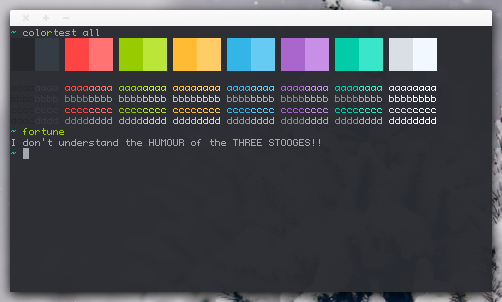
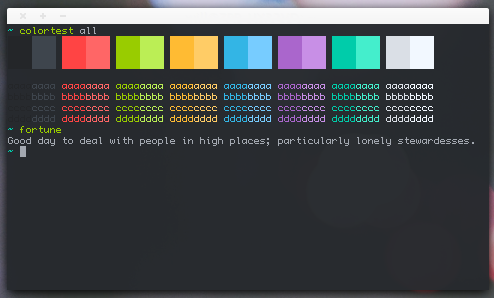
added tmux section and updated screenshots

Changed region(s): [[0.0, 0.0, 1.0, 1.0], [0.0607, 0.302, 0.0911, 0.3322]]

diff --git a/stylesheet.css b/stylesheet.css
@@ -15,7 +15,7 @@ a {
 h2 {
 	color: #222;
 	font-weight: 700;
-	font-size: 30pt;
+	font-size: 30px;
 	padding: 0;
 	margin: 0;
 }
@@ -34,7 +34,7 @@ h2 {
 	margin: 15px;
 	
 	font-weight: 400;
-	font-size: 14pt;
+	font-size: 14px;
 	color: #444;
 	text-decoration: none;
 }
@@ -43,7 +43,8 @@ h2 {
 #sidebar .startpage,
 #sidebar .themes,
 #sidebar .terminal,
-#sidebar .vim {
+#sidebar .vim,
+#sidebar .tmux {
 	border-bottom: 1px dotted #ccc;
 }
 
@@ -54,7 +55,7 @@ h2 {
 
 #title a {
 	font-weight: 600;
-	font-size: 30pt;
+	font-size: 30px;
 	text-decoration: none;
 	color: #111;
 }
@@ -74,7 +75,8 @@ h2 {
 #startpage_cont,
 #themes_cont,
 #terminal_cont,
-#vim_cont {
+#vim_cont,
+#tmux_cont {
 	width: auto;
 	padding-top: 5%;
 	padding-bottom: 5%;
@@ -84,7 +86,7 @@ h2 {
 	text-align: center;
 
 	font-weight: 600;
-	font-size: 24px;
+	font-size: 18px;
 	color: #444;
 	border-bottom: 1px dotted #ccc;
 }
@@ -96,9 +98,10 @@ h2 {
 #startpage_cont .links a,
 #terminal_cont .links a, 
 #themes_cont a,
-#vim_cont .links a {
+#vim_cont .links a,
+#tmux_cont .links a {
 	text-decoration: none;
-	font-size: 18px;
+	font-size: 14px;
 	font-weight: 600;
 	color: #888;
 	border: 1px dotted #aaa;
@@ -114,7 +117,8 @@ h2 {
 #startpage_cont .links a:hover,
 #terminal_cont .links a:hover, 
 #themes_cont a:hover,
-#vim_cont .links a:hover {
+#vim_cont .links a:hover,
+#tmux_cont .links a:hover {
 	border: 1px solid #0b72d9;
 	color: #0b72d9;
 	transition: all 0.3s ease 0s;
@@ -124,7 +128,7 @@ h2 {
 
 #themes_cont .norm_link,
 #themes_cont .norm_link:hover {
-	font-size: 24px;
+	font-size: 18px;
 	border: none;
 	padding: 0;
 }
@@ -135,7 +139,8 @@ h2 {
 #startpage_cont,
 #themes_cont,
 #terminal_cont,
-#vim_cont {
+#vim_cont,
+#tmux_cont {
 	font-weight: 400;
 }
 
@@ -144,7 +149,8 @@ h2 {
 #userchrome_cont img,
 #startpage_cont img,
 #terminal_cont img,
-#vim_cont img {
+#vim_cont img,
+#tmux_cont img {
 	display: block;
 	width: 100%;
 	max-width: 1191px;
@@ -156,11 +162,15 @@ h2 {
 }
 
 #terminal_cont img {
-	max-width: 502px;
+	max-width: 494px;
 }
 
 #vim_cont img {
-	max-width: 509px;
+	max-width: 495px;
+}
+
+#tmux_cont img {
+	max-width: 503px;
 }
 
 #userchrome_cont img {
@@ -172,7 +182,8 @@ h2 {
 #userchrome_cont img:hover,
 #startpage_cont img:hover,
 #terminal_cont img:hover,
-#vim_cont img:hover {
+#vim_cont img:hover,
+#tmux_cont img:hover {
 	border: 1px solid #0b72d9;
 	color: #0b72d9;
 	transition: all 0.3s ease 0s;
@@ -185,7 +196,8 @@ h2 {
 #userchrome_cont .links,
 #startpage_cont .links,
 #terminal_cont .links,
-#vim_cont .links {
+#vim_cont .links,
+#tmux_cont .links {
 	margin-top: 30px;
 	margin-bottom: 30px;
 }

diff --git a/index.html b/index.html
@@ -31,6 +31,9 @@
 			<div class="vim">
 				<a href="#vim">Vim</a>
 			</div>
+			<div class="tmux">
+				<a href="#tmux">tmux</a>
+			</div>
 		</div>
 	</div>
 	<div id="main">
@@ -96,6 +99,15 @@
 		<a href="assets/vim.png"><img src="assets/vim.png"></a>
 		<div class="links">
 			<a href="https://github.com/hdni/dotfiles/tree/master/vim">Check it out</a>
+		</div>
+	</div>
+	<div id="tmux_cont">
+		<h2 id="tmux">tmux</h2>
+		<p>A tmux config file that uses Powerline glyphs and only displays essential information. It depends a lot on my color scheme, so it might look out of place without it.</p>
+		<a href="assets/tmux.png"><img src="assets/tmux.png"></a>
+		<div class="links">
+			<a href="https://raw.github.com/hdni/dotfiles/master/tmux/.tmux.conf">Check it out</a>
+			<a href="https://github.com/hdni/dotfiles/tree/master/tmux#tmux-configuration">How do I set this up?</a>
 		</div>
 	</div>
 </body>
